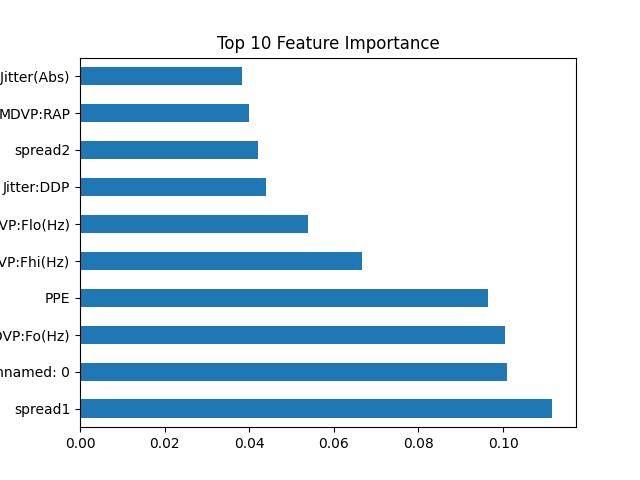
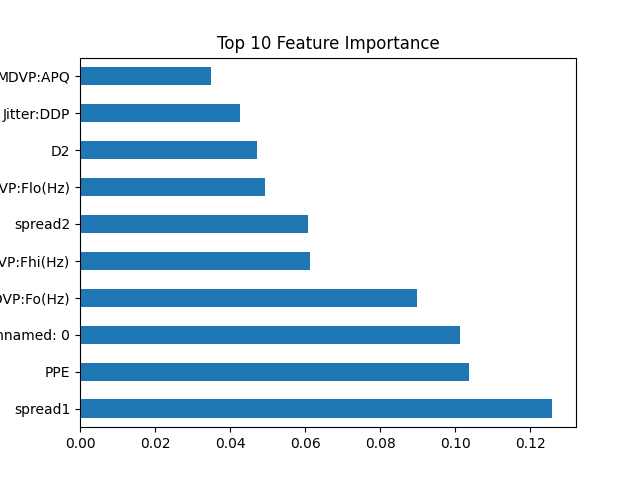
add pre process to training

diff --git a/dataset.py b/dataset.py
@@ -1,6 +1,7 @@
 import kagglehub 
+import numpy as np
 import pandas as pd
-import os
+from scipy.stats import zscore
 from sklearn import preprocessing as pre
 
 def load_voice_dataset() -> pd.DataFrame:
@@ -24,8 +25,7 @@ def load_voice_dataset() -> pd.DataFrame:
 # Perform all the preprocessing steps
 def preprocess_dataset(df) -> pd.DataFrame:
     df_outlierless = remove_outliers(df)
-    df_normalized = remove_outliers(df_outlierless)
-    return df_normalized
+    return df_outlierless
 
 # Take every numeric value in the dataset and normalize it to a value between 0 and 1
 def normalize_dataset(df) -> pd.DataFrame:
@@ -37,7 +37,7 @@ def normalize_dataset(df) -> pd.DataFrame:
     min_max_scaler = pre.MinMaxScaler((0, 1))
     # Apply the normalization
     df_normalized = min_max_scaler.fit_transform(df_normalizable)
-
+    print(len(df_normalized))
     # Pack the returned numpy array into a DataFrame, making sure the original labels and indexing carry over
     df_normalized = pd.DataFrame(df_normalized, columns=df_normalizable.columns, index=df_normalizable.index)
     # Merge the normalized dataset with the attributes left out of normalization. This does change the ordering of the attributes, with the ones left out appearing at the front.
@@ -45,6 +45,14 @@ def normalize_dataset(df) -> pd.DataFrame:
     return df_normalized
 
 # Remove the outliers from the dataset
+# https://stackoverflow.com/questions/23199796/detect-and-exclude-outliers-in-a-pandas-dataframe
 def remove_outliers(df) -> pd.DataFrame:
-    
-    return df
+    # Only select numeric columns
+    numeric_cols = df.select_dtypes(include=[np.number]).columns
+    # Compute z-scores only for numeric columns
+    z_scores = np.abs(zscore(df[numeric_cols]))
+    # Create a mask where all z-scores are less than 3
+    mask = (z_scores < 3).all(axis=1)
+    # Keep rows that satisfy the condition
+    df_outlierless = df[mask]
+    return df_outlierless

diff --git a/train.py b/train.py
@@ -8,10 +8,10 @@ from sklearn.metrics import accuracy_score, classification_report, confusion_mat
 import seaborn as sns
 matplotlib.use('Agg')  # Set non-interactive backend
 import matplotlib.pyplot as plt
-from dataset import load_voice_dataset
+from dataset import load_voice_dataset, preprocess_dataset
 
 # Load dataset
-data = load_voice_dataset()
+data = preprocess_dataset(load_voice_dataset())
 
 # Assume 'status' is the target column (1 = Parkinson's, 0 = healthy)
 X = data.drop(['status', 'name'], axis=1)  # Drop 'status' and 'name'

diff --git a/outliers.py b/outliers.py
@@ -17,4 +17,4 @@ def show_plot(df):
   plt.show()
 
 df = load_voice_dataset()
-show_plot(df)
+show_plot(df["MDVP:Fo(Hz)"])
